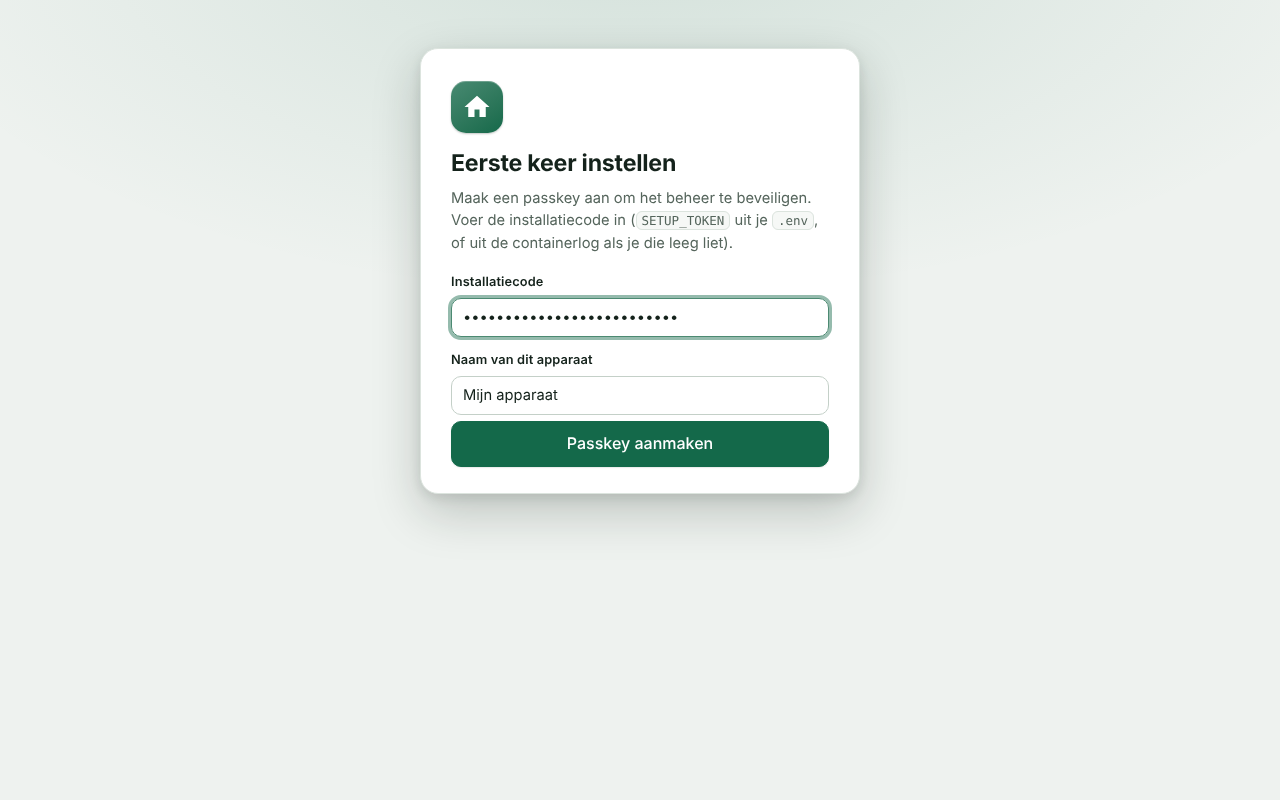
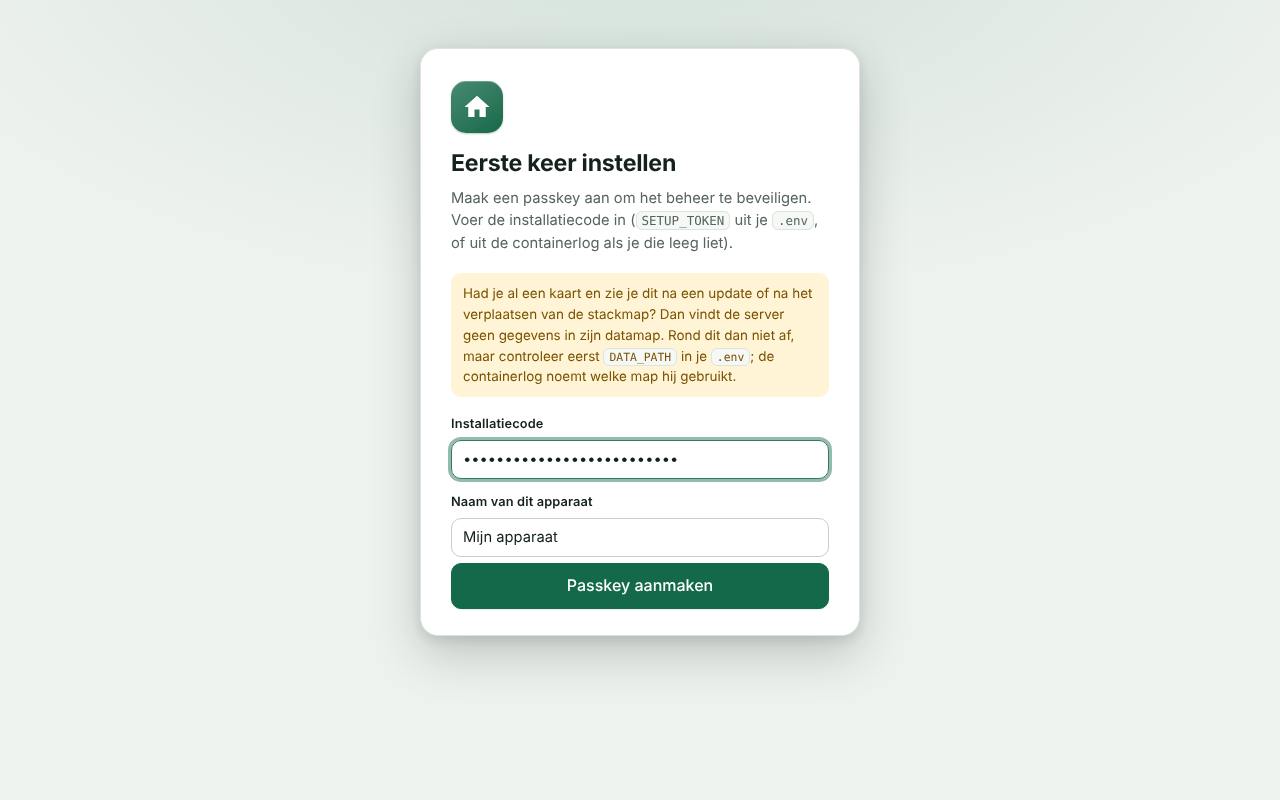
Startmelding met de datamap en een hint bij een lege datamap
Wie een stackmap verplaatst terwijl DATA_PATH leeg is, krijgt een nieuwe lege
./data en ziet in het beheer ineens weer de installatiecode, terwijl de
gegevens nog in de oude map staan. Dat was nergens aan te zien.

- Bij het starten zet de server in de containerlog welke datamap hij gebruikt
  en of daar al een db.json stond (met het aantal huizen en passkeys). Zonder
  db.json staat er hoe je dat oplost: DATA_PATH op het absolute pad zetten.
- Het setupscherm waarschuwt: had je al een kaart, rond dit dan niet af en
  controleer eerst DATA_PATH.
- README (NL/EN): "Ineens weer de installatiecode?" bij het deployen;
  onboarding-screenshot bijgewerkt; Engelse vertaling en tests.

Claude-Session: https://claude.ai/code/session_01KSdu53vJmZxAHatKfQEnKo

Changed region(s): [[0.3125, 0.3438, 0.6875, 0.8438]]

diff --git a/server/store.js b/server/store.js
@@ -10,7 +10,8 @@ fs.mkdirSync(uploadDir, { recursive: true });
 
 const empty = () => ({ userId: null, passkeys: [], password: null, view: null, pdfView: null, houses: [], residents: [], proposals: [], blocked: [], houseSecrets: {}, messages: [], push: null, settings: { intro: '', logo: null, appName: '', appShortName: '', siteTitle: '', residentsEnabled: true, residentsAppOnly: false, labels: { green: 'Groen', red: 'Rood', none: 'Niet gemarkeerd' } }, version: 2 });
 let db = empty();
-if (fs.existsSync(dbFile)) {
+const found = fs.existsSync(dbFile); // stonden er bij het starten al gegevens in de datamap?
+if (found) {
   db = { ...empty(), ...JSON.parse(fs.readFileSync(dbFile, 'utf8')) };
   if (db.version !== 2) {
     // Oude versie met geüploade afbeelding: huizen waren relatief aan het plaatje en zijn niet bruikbaar op de kaart.
@@ -27,4 +28,15 @@ function save() {
   fs.renameSync(tmp, dbFile);
 }
 
-module.exports = { db: () => db, save, uploadDir };
+// Startmelding voor de containerlog: welke datamap de server gebruikt en of daar al gegevens stonden.
+// Een lege datamap na een update komt bijna altijd door een andere gekoppelde hostmap (DATA_PATH), niet door verlies.
+function startupReport() {
+  if (found) return `Gegevens: ${dbFile} (${db.houses.length} huizen, ${db.passkeys.length} passkey(s))`;
+  return [
+    `Gegevens: geen ${dbFile} gevonden. De server begint met een lege kaart en vraagt om de installatiecode.`,
+    `Had je al gegevens? Dan is er een andere (lege) map op ${config.dataDir} gekoppeld, bijvoorbeeld na het verplaatsen van de stackmap.`,
+    'Rond de installatie dan niet af, maar zet DATA_PATH in .env op het absolute pad van de map met db.json (docker inspect toont welke map nu gekoppeld is).',
+  ].join('\n');
+}
+
+module.exports = { db: () => db, save, uploadDir, startupReport };

diff --git a/test/store.test.js b/test/store.test.js
@@ -1,0 +1,28 @@
+const test = require('node:test');
+const assert = require('node:assert');
+const os = require('node:os');
+const fs = require('node:fs');
+const path = require('node:path');
+const { execFileSync } = require('node:child_process');
+
+// De startmelding in een eigen proces, zodat de datamap per geval anders kan zijn.
+const report = (dataDir) => execFileSync(process.execPath, ['-e', "process.stdout.write(require('./server/store').startupReport())"], {
+  cwd: path.join(__dirname, '..'), env: { ...process.env, DATA_DIR: dataDir }, encoding: 'utf8',
+});
+
+test('startmelding: lege datamap wijst op DATA_PATH', () => {
+  const dir = fs.mkdtempSync(path.join(os.tmpdir(), 'sm-store-'));
+  const r = report(dir);
+  assert.match(r, /geen .*db\.json gevonden/);
+  assert.match(r, /DATA_PATH/);
+  assert.ok(r.includes(dir));
+  assert.ok(!fs.existsSync(path.join(dir, 'db.json'))); // alleen melden, niets aanmaken
+});
+
+test('startmelding: bestaande gegevens met aantallen', () => {
+  const dir = fs.mkdtempSync(path.join(os.tmpdir(), 'sm-store-'));
+  const sq = [[52.02, 5.16], [52.02, 5.161], [52.021, 5.161]];
+  fs.writeFileSync(path.join(dir, 'db.json'), JSON.stringify({ version: 2, passkeys: [{ id: 'pk' }], houses: [{ id: 'a', points: sq }, { id: 'b', points: sq }] }));
+  const r = report(dir);
+  assert.match(r, /^Gegevens: .*db\.json \(2 huizen, 1 passkey\(s\)\)$/);
+});

diff --git a/public/js/lang-en.js b/public/js/lang-en.js
@@ -672,6 +672,7 @@
     "Op deze kaart staan geen huizen; er valt niets te bewaren": "There are no houses on this map; there is nothing to save",
     "Editie niet gevonden": "Edition not found",
     "Geen geldige edities geselecteerd": "No valid editions selected",
+    "Had je al een kaart en zie je dit na een update of na het verplaatsen van de stackmap? Dan vindt de server geen gegevens in zijn datamap. Rond dit dan niet af, maar controleer eerst <code>DATA_PATH</code> in je <code>.env</code>; de containerlog noemt welke map hij gebruikt.": "Did you already have a map and do you see this after an update or after moving the stack folder? Then the server finds no data in its data folder. Do not complete this, but first check <code>DATA_PATH</code> in your <code>.env</code>; the container log shows which folder it uses.",
     "@words": [["Sint Maarten", "Halloween"], ["Sint-Maarten", "Halloween"], ["Sintmaarten", "Halloween"]],
   };
   return { en };

diff --git a/public/admin/index.html b/public/admin/index.html
@@ -26,6 +26,7 @@
   <span class="brand-mark lg" aria-hidden="true"><svg viewBox="0 0 24 24" aria-hidden="true"><path d="M10,20V14H14V20H19V12H22L12,3L2,12H5V20H10Z"/></svg></span>
   <h2>Eerste keer instellen</h2>
   <p class="muted">Maak een passkey aan om het beheer te beveiligen. Voer de installatiecode in (<code>SETUP_TOKEN</code> uit je <code>.env</code>, of uit de containerlog als je die leeg liet).</p>
+  <p class="muted setup-moved">Had je al een kaart en zie je dit na een update of na het verplaatsen van de stackmap? Dan vindt de server geen gegevens in zijn datamap. Rond dit dan niet af, maar controleer eerst <code>DATA_PATH</code> in je <code>.env</code>; de containerlog noemt welke map hij gebruikt.</p>
   <label for="s-token">Installatiecode</label>
   <input type="text" id="s-token" class="secret" autocomplete="off" spellcheck="false">
   <label for="s-name">Naam van dit apparaat</label>

diff --git a/public/css/admin.css b/public/css/admin.css
@@ -22,6 +22,7 @@ body.admin #v-setup h2, body.admin #v-login h2 { margin: 0 0 6px; font-size: 1.4
 body.admin #v-setup > .muted, body.admin #v-login > .muted { font-size: .92rem; line-height: 1.55; margin: 0 0 18px; }
 body.admin #v-setup button.primary, body.admin #v-login button.primary { width: 100%; min-height: 46px; font-size: 1rem; margin-top: 6px; }
 body.admin #v-login #l-pw-go { width: 100%; min-height: 44px; }
+body.admin #v-setup > .setup-moved { font-size: .84rem; padding: 10px 12px; border-radius: var(--r-md); background: var(--warn-soft); color: var(--warn-ink); }
 body.admin #v-setup label, body.admin #v-login label { color: var(--text); margin: 14px 0 6px; }
 body.admin #v-login .back-link { margin-top: 10px; font-size: .9rem; text-decoration: none; }
 body.admin #v-login .back-link:hover { text-decoration: underline; }

diff --git a/server/index.js b/server/index.js
@@ -823,6 +823,7 @@ if (require.main === module) {
   app.listen(config.port, () => {
     console.log(`Doorbell Map draait op poort ${config.port} (${config.origin}, rpID ${config.rpID})`);
     console.log(`Versie ${appVersion.label}`);
+    console.log(store.startupReport());
     if (config.setupTokenGenerated && !store.db().passkeys.length) {
       console.log(`\nINSTALLATIE: er is geen SETUP_TOKEN ingesteld. Tijdelijke code voor de eerste passkey:\n  ${config.setupToken}\n`);
     }

diff --git a/README.en.md b/README.en.md
@@ -337,6 +337,8 @@ You do not have to build the code: the image is built and published automaticall
 
 **Updating:** `docker compose pull && docker compose up -d`. **Back-up:** copy the data folder (`DATA_PATH`) (or use the backups in the admin area).
 
+**Suddenly asked for the setup code again?** Then the server finds no `db.json` in `/data`: a different, empty folder is mounted. This happens for example when you move the stack folder while `DATA_PATH` is empty, because `./data` then points to a new empty folder; your data is still in the old one. Do not complete the setup. At startup the server writes to the container log which data folder it uses and whether it found data there (`Gegevens: …`); `docker inspect <container>` shows which host folder is mounted on `/data`. Set `DATA_PATH` in `.env` to the absolute path of the folder with `db.json` (or copy the contents of the old folder into the new one with `cp -a`, with the container stopped) and start again.
+
 > Is the GHCR package private? Make it public (GitHub → Packages → Package settings), or log in with
 > `docker login ghcr.io` (username + Personal Access Token with `read:packages`).
 

diff --git a/README.md b/README.md
@@ -335,6 +335,8 @@ Je hoeft de code niet te bouwen: het image wordt door [GitHub Actions](.github/w
 
 **Bijwerken:** `docker compose pull && docker compose up -d`. **Back-up:** kopieer die map (of gebruik de backups in het beheer).
 
+**Ineens weer de installatiecode?** Dan vindt de server in `/data` geen `db.json`: er is een andere, lege map gekoppeld. Dat gebeurt bijvoorbeeld als je de stackmap verplaatst terwijl `DATA_PATH` leeg is, want `./data` verhuist dan mee naar een nieuwe lege map; je gegevens staan nog in de oude. Rond de installatie dan niet af. Bij het starten zet de server in de containerlog welke datamap hij gebruikt en of daar gegevens stonden (`Gegevens: …`); `docker inspect <container>` toont welke hostmap op `/data` zit. Zet `DATA_PATH` in `.env` op het absolute pad van de map met `db.json` (of kopieer de inhoud van de oude map met `cp -a` naar de nieuwe, met de container gestopt) en start opnieuw.
+
 > Is het GHCR-package privé? Maak het publiek (GitHub → Packages → Package settings), of log in met
 > `docker login ghcr.io` (gebruikersnaam + Personal Access Token met `read:packages`).
 
